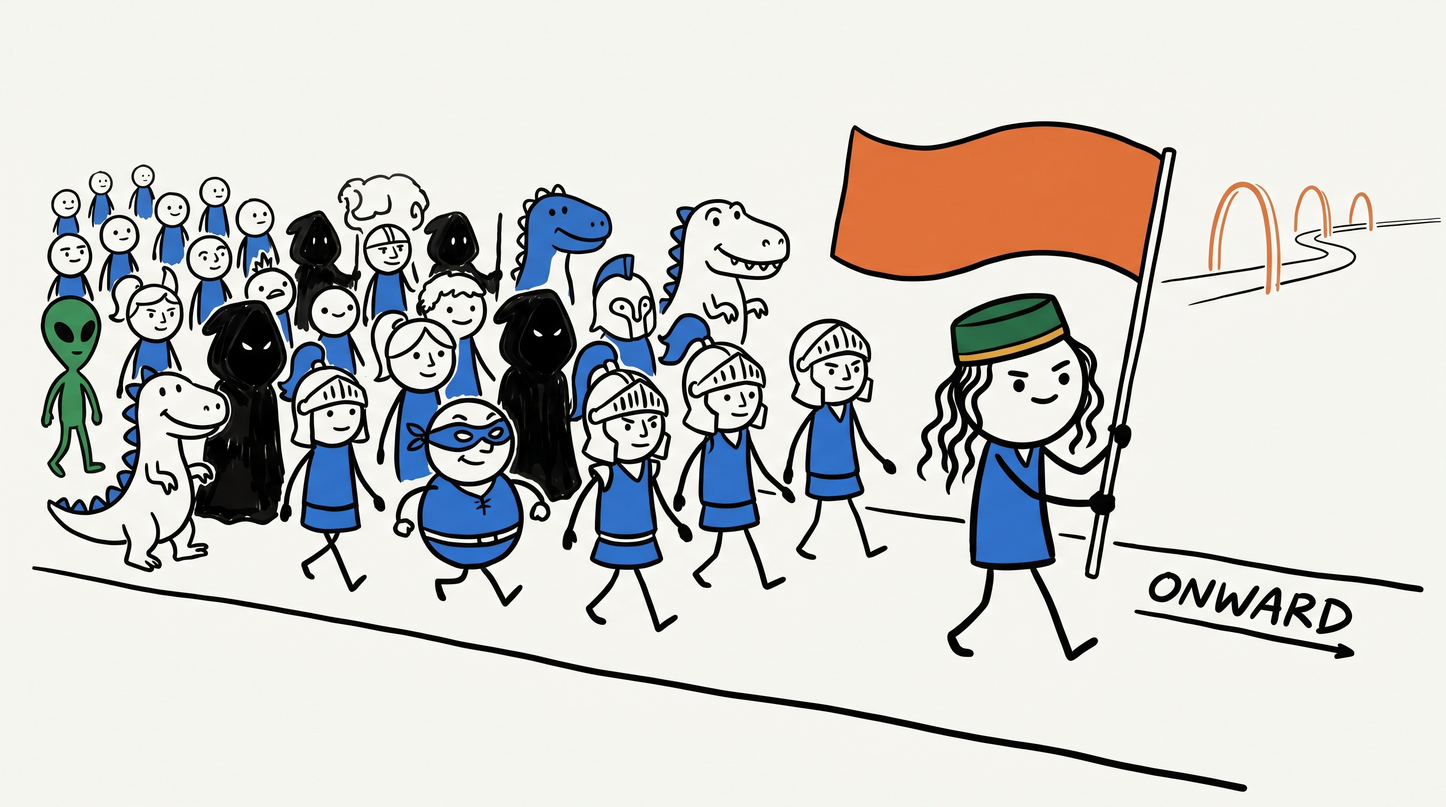
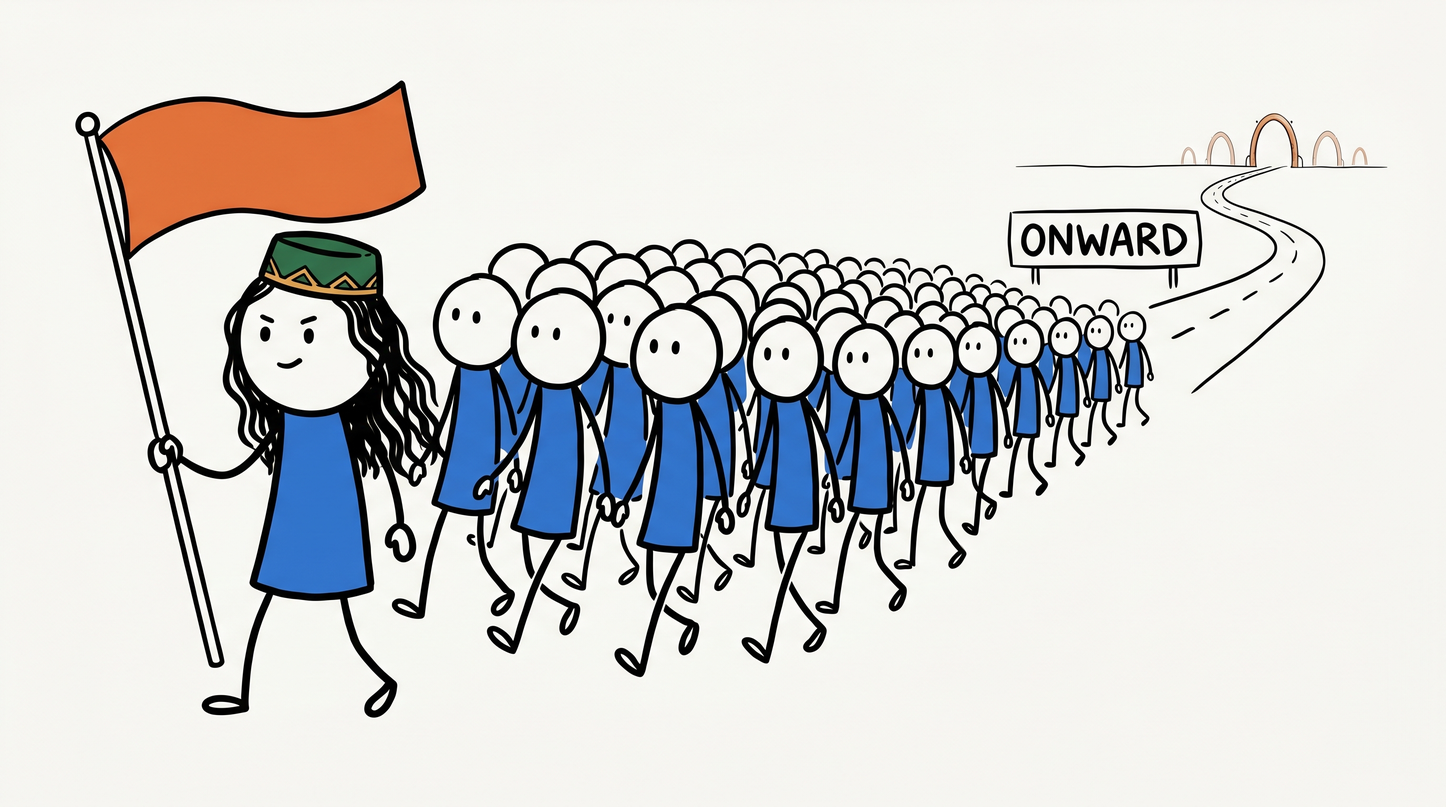
fix(L8): audit findings — ColBERT dim claim, slide-49 naming, L8-05 palette
Comprehensive L8 audit (all gates + fresh pedagogy/proofread/domain review +
visual). Three genuine issues found and fixed; everything else verified clean.

- domain (MAJOR, non-blocking): the depth-maxsim-math beat called the real run
  "768-dimensional token embeddings" — but ColBERTv2 projects tokens to 128-dim
  (the deck's own slide 09 teaches ℝ^{|q|×128}). The 768 came from the generator
  measuring base hidden states (gen_l8_real sets dim=int(Eq.shape[1])). Dropped the
  specific dimension in en/ru/tt ("real per-token embeddings from the model") — no
  false 768-dim ColBERTv2 claim, no contradiction with the deck.
- proofread (MEDIUM): slide 49 said "M1–M3 / M4", an internal-shorthand leak that
  broke the "pillars 1–N" naming used everywhere else (incl. the same slide's 2nd
  bullet and the RU twin). Fixed to "pillars 1–3 / pillar 4" (EN + RU + note).
- illustration palette: the L8-05 payoff plate had rendered a GREEN alien (green
  outside Serega's tübetey — the image-gate lints briefs, not pixels, so it slipped
  through). Hardened the brief ("no green alien/creatures") and regenerated; the host
  is now uniformly course-blue.

Gates after fixes: build 55p · facts HARD=0 +selftest · image-gate HARD=0 +selftest ·
i18n 0 holes · slide-viz --strict 0/0 · widget-render 0 · wbw08 5/5 · offline nonLocal=0.

diff --git a/content/book/l8/beats/06-depth-maxsim-math.js b/content/book/l8/beats/06-depth-maxsim-math.js
@@ -5,17 +5,17 @@
         en: [
           "Write the operator out: \\(S_{q,d} = \\sum_{i \\in q} \\max_{j \\in d} E_{q_i} \\cdot E_{d_j}\\). Two choices matter. First, the vectors are **L2-normalized**, so each dot product \\(E_{q_i} \\cdot E_{d_j}\\) is a cosine in \\([-1, 1]\\) — comparable across token pairs. Second, the inner operator is a **max**, not a sum or an average over the row.",
           "Why max? A sum over all doc tokens would reward *long* documents (more terms to add) and dilute a sharp match among many weak ones. The max asks a cleaner question: *for this query token, how well does its single best match in the document do?* Summing those best-matches over the query tokens then asks: *did the document answer many parts of the query, or just one?* That is exactly what separated \\(2.35\\) from \\(1.30\\).",
-          "A real ColBERTv2 model agrees on the very same query and documents: it scores \\(\\text{MaxSim} = \\mathbf{3.5462}\\) for the relevant document versus \\(\\mathbf{2.5407}\\) for the irrelevant one — far larger magnitudes than our toy cells (real 768-dimensional token embeddings, not hand-picked values in \\([0,1]\\)), yet the same verdict. Toy and real model agree on the ordering — and the ordering is the point.",
+          "A real ColBERTv2 model agrees on the very same query and documents: it scores \\(\\text{MaxSim} = \\mathbf{3.5462}\\) for the relevant document versus \\(\\mathbf{2.5407}\\) for the irrelevant one — far larger magnitudes than our toy cells (real per-token embeddings from the model, not hand-picked values in \\([0,1]\\)), yet the same verdict. Toy and real model agree on the ordering — and the ordering is the point.",
         ],
         ru: [
           "Выпишем оператор: \\(S_{q,d} = \\sum_{i \\in q} \\max_{j \\in d} E_{q_i} \\cdot E_{d_j}\\). Важны два выбора. Во-первых, векторы **L2-нормированы**, поэтому каждое скалярное произведение \\(E_{q_i} \\cdot E_{d_j}\\) — это косинус в \\([-1, 1]\\), сравнимый между парами токенов. Во-вторых, внутренний оператор — **максимум**, а не сумма или среднее по строке.",
           "Почему максимум? Сумма по всем токенам документа награждала бы *длинные* документы (больше слагаемых) и размывала бы резкое совпадение среди многих слабых. Максимум задаёт более чистый вопрос: *насколько хорошо для этого токена запроса его единственное лучшее совпадение в документе?* Суммируя эти лучшие совпадения по токенам запроса, спрашиваем: *ответил ли документ на многие части запроса или лишь на одну?* Именно это и отделило \\(2{,}35\\) от \\(1{,}30\\).",
-          "Настоящая модель ColBERTv2 согласна на том же запросе и тех же документах: она даёт \\(\\text{MaxSim} = \\mathbf{3{,}5462}\\) для релевантного документа против \\(\\mathbf{2{,}5407}\\) для нерелевантного — куда большие величины, чем в нашей игрушке (настоящие 768-мерные токенные вложения, а не подобранные значения в \\([0,1]\\)), но вердикт тот же. Игрушка и настоящая модель совпадают в порядке — а порядок и есть суть.",
+          "Настоящая модель ColBERTv2 согласна на том же запросе и тех же документах: она даёт \\(\\text{MaxSim} = \\mathbf{3{,}5462}\\) для релевантного документа против \\(\\mathbf{2{,}5407}\\) для нерелевантного — куда большие величины, чем в нашей игрушке (настоящие потокенные вложения модели, а не подобранные значения в \\([0,1]\\)), но вердикт тот же. Игрушка и настоящая модель совпадают в порядке — а порядок и есть суть.",
         ],
         tt: [
           "Операторны язып куйыйк: \\(S_{q,d} = \\sum_{i \\in q} \\max_{j \\in d} E_{q_i} \\cdot E_{d_j}\\). Ике сайлау мөһим. Беренчедән, векторлар **L2-нормалаштырылган**, шуңа һәр скаляр тапкырчыгыш \\(E_{q_i} \\cdot E_{d_j}\\) — \\([-1, 1]\\) тәге косинус, токен парлары арасында чагыштырырлык. Икенчедән, эчке оператор — **максимум**, юл буенча сумма яки уртача түгел.",
           "Ни өчен максимум? Бөтен документ токеннары буенча сумма *озын* документларны бүләкләр иде (кушылучылар күбрәк) һәм кискен туры килүне күп көчсезләре арасында йомшартыр иде. Максимум чистарак сорау бирә: *бу сорау токены өчен документтагы аның бердәнбер иң яхшы туры килүе ничек?* Бу иң яхшы туры килүләрне сорау токеннары буенча кушып: *документ сорауның күп өлешләренә җавап бирдеме, әллә берсенә генәме?* дип сорыйбыз. Нәкъ менә шул \\(2{,}35\\) не \\(1{,}30\\) дан аерды.",
-          "Чын ColBERTv2 моделе нәкъ шул ук сорау һәм документларда килешә: ул релевант документ өчен \\(\\text{MaxSim} = \\mathbf{3{,}5462}\\), релевант булмаганы өчен \\(\\mathbf{2{,}5407}\\) бирә — безнең уенчыктагыдан күпкә зуррак зурлыклар (чын 768-үлчәмле токен вложениеләре, \\([0,1]\\) эчендә сайланган саннар түгел), әмма карар шул ук. Уенчык һәм чын модель тәртиптә туры килә — ә тәртип иң мөһиме.",
+          "Чын ColBERTv2 моделе нәкъ шул ук сорау һәм документларда килешә: ул релевант документ өчен \\(\\text{MaxSim} = \\mathbf{3{,}5462}\\), релевант булмаганы өчен \\(\\mathbf{2{,}5407}\\) бирә — безнең уенчыктагыдан күпкә зуррак зурлыклар (модельнең чын токен вложениеләре, \\([0,1]\\) эчендә сайланган саннар түгел), әмма карар шул ук. Уенчык һәм чын модель тәртиптә туры килә — ә тәртип иң мөһиме.",
         ],
       },
     },

diff --git a/Lectures/08-colbert-splade-ltr/parts/49-features-for-the-captain.html b/Lectures/08-colbert-splade-ltr/parts/49-features-for-the-captain.html
@@ -8,11 +8,11 @@
     <div class="def-term"><span lang="ru">Все три столпа — это входные признаки</span><span lang="en">All three pillars are input features</span></div>
     <div class="def-body">
       <ul class="obj-list">
-        <li class="obj-item"><span class="obj-check" aria-hidden="true">·</span><span class="obj-text"><span lang="ru">Те самые оценки из M1–M3 — MaxSim ColBERT, вес SPLADE, плотный косинус — становятся координатами вектора признаков, рядом с классическими сигналами (BM25, свежесть, клики, длина).</span><span lang="en">The very scores you built in M1–M3 — ColBERT MaxSim, the SPLADE weight, the dense cosine — become coordinates in the feature vector, sitting beside classic signals (BM25, freshness, clicks, length).</span></span></li>
+        <li class="obj-item"><span class="obj-check" aria-hidden="true">·</span><span class="obj-text"><span lang="ru">Те самые оценки из столпов 1–3 — MaxSim ColBERT, вес SPLADE, плотный косинус — становятся координатами вектора признаков, рядом с классическими сигналами (BM25, свежесть, клики, длина).</span><span lang="en">The very scores you built in pillars 1–3 — ColBERT MaxSim, the SPLADE weight, the dense cosine — become coordinates in the feature vector, sitting beside classic signals (BM25, freshness, clicks, length).</span></span></li>
         <li class="obj-item"><span class="obj-check" aria-hidden="true">·</span><span class="obj-text"><span lang="ru">Оценки столпов 1–3 — это просто признаки для LambdaMART; капитан учится их <em>взвешивать</em>.</span><span lang="en">The scores from pillars 1–3 are just features for LambdaMART; the captain learns to <em>weight</em> them.</span></span></li>
       </ul>
     </div>
   </div>
-  <aside class="slide-notes">Features: the neural scores (BM25, dense, SPLADE, ColBERT) become LTR features. Links M1–M3 into M4.</aside>
+  <aside class="slide-notes">Features: the neural scores (BM25, dense, SPLADE, ColBERT) become LTR features. Links pillars 1–3 into pillar 4.</aside>
 </section>
 

diff --git a/_research/gen_images.py b/_research/gen_images.py
@@ -1073,9 +1073,10 @@ JOBS = [
      "small determined smile, toward a HORIZON where faint JUMP-GATE ARCHES and a road lead off-frame "
      "(the bridge to the next quests). The marching host is black ink + course-blue on off-white; "
      "Serega's one raised banner is warm-orange; a faint hint of warm-orange marks the distant jump-gate "
-     "on the horizon; Serega's green tübetey is the ONLY green. One short hand-lettered label on the road "
-     "ahead reads 'ONWARD'. Reads 'one ordered host under Serega's banner, marching toward the road "
-     "ahead'. Fills ≥85% of canvas width."),
+     "on the horizon; Serega's green tübetey is the ONLY green — do NOT add a green alien or any green "
+     "creatures, every marching figure except Serega is bare of green (any cameo creature is course-blue "
+     "or black ink). One short hand-lettered label on the road ahead reads 'ONWARD'. Reads 'one ordered "
+     "host under Serega's banner, marching toward the road ahead'. Fills ≥85% of canvas width."),
 ]
 
 H = {"Authorization": f"Bearer {API_KEY}"}
